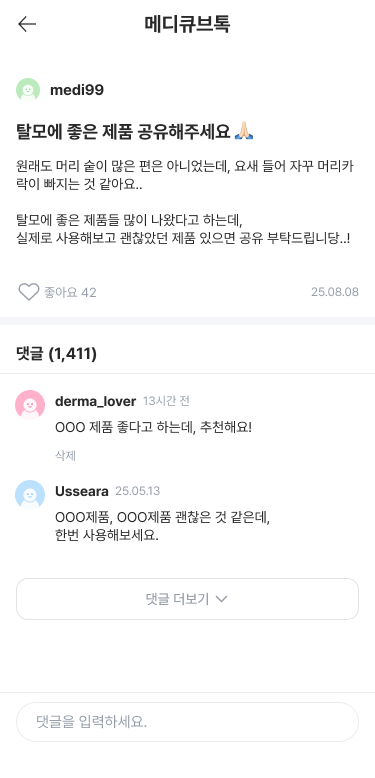
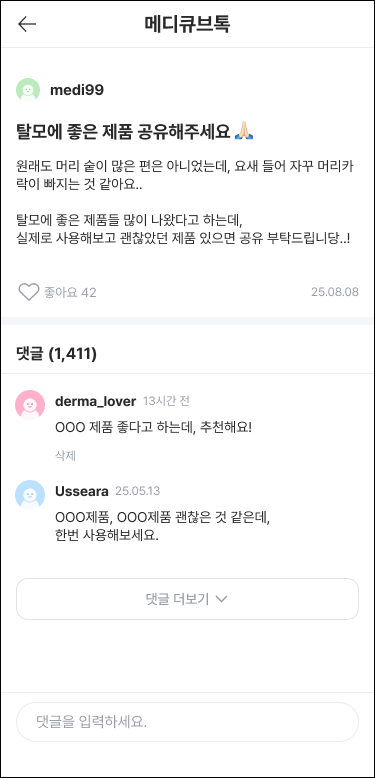
fix: align detail app bar divider with retouch
The updated retouch detail references add a bottom divider to the app
bar. Draw it as a 1px #EAECEE inset shadow (same color as the list
header divider) so the 48px bar, back button, title, and post content
keep their exact positions. Includes the updated own/other detail
PNG/SVG references and a one-line readme correction.

Changed region(s): [[0.9973, 0.0, 1.0, 1.0], [0.0, 0.9871, 0.0293, 1.0], [0.0, 0.0, 0.0293, 0.0308]]

diff --git a/frontend/features/post-detail/PostDetailScreen.module.css b/frontend/features/post-detail/PostDetailScreen.module.css
@@ -29,6 +29,10 @@
   height: 48px;
   padding: 0 8px;
   background: var(--color-surface);
+  /* RETOUCH: 1px #EAECEE divider at y=47, the same color as the list header.
+     An inset shadow (not a border) keeps the 48px grid, so the back button
+     and title do not move. */
+  box-shadow: inset 0 -1px 0 #eaecee;
 }
 
 .appTitle {

diff --git a/design/design-retouch/readme.md b/design/design-retouch/readme.md
@@ -30,14 +30,13 @@
 
 ## Post Detail
 
-- 상단 app bar에 `메디큐브톡` 제목을 표시한다.
+- 상단 app bar에 `메디큐브톡` 제목을 표시하고, 목록과 같은 1px `#EAECEE` 하단 divider를 둔다.
 - 게시글 작성자 avatar/name은 기존보다 작게 표현한다 (36px → 24px, 날짜 분리).
 - 본인 글의 `⋮` 메뉴는 app bar가 아니라 작성자 row 우측에 둔다.
   수정/삭제가 "페이지 전체"가 아니라 "해당 게시글"의 action임을 명확히 하기 위함이다.
 - 게시글 하단에는 좋아요(왼쪽)와 작성 날짜(오른쪽)를 metadata로 배치한다.
 - 타인 글은 같은 row 높이에서 `⋮`만 없다 (본인/타인 간 세로 흔들림 없음).
-  `png/메디큐브톡_상세(타인 글).png`에는 `⋮`가 남아 있는 export 오류가 있으며,
-  `⋮`가 없는 `svg/메디큐브톡_상세(타인 글).svg`를 기준으로 한다.
+  (타인 글 export의 바깥 검은 1px 테두리는 artboard 외곽선이며 디자인 요소가 아니다.)
 
 ## 코드에서 다듬은 인터랙션
 
